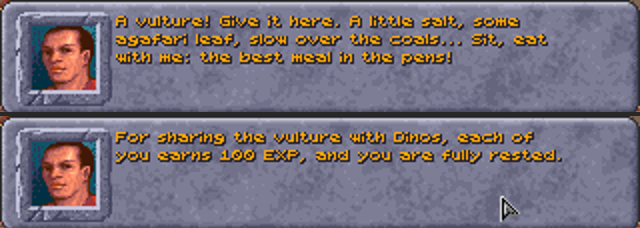
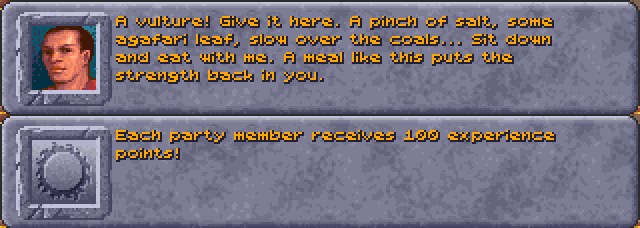
READMEs after pull request #14: changelog, vulture quest and its screenshot, log lines
- Changelog: #14 merged, with its last fixes (the gear writer's memory
  safety, Kalzith's sold out, the vulture at load, the thief's first turn)
  and additions (cloak and boots for stealth, regeneration, the write guard).
- The cooked vulture: the game's own XP window, Dinos's new line, a new
  screenshot.
- Log lines: the meal's, regeneration, the write guard's notice.
- What the party wears: armour on mostly bare figures, and the memory check.

Claude-Session: https://claude.ai/code/session_01BNiWkhyZSJPYsN3zRrweVp

diff --git a/darksun-companion/README.md b/darksun-companion/README.md
@@ -263,6 +263,7 @@ If more than one DOSBox is running, add `--pid <number>` (from `processes`).
 | `    X's Bone Long Sword nearly broke: 0 on 0-7, then 12 on 0-19 (needed 0)` / `... BREAKS` | The weapon check the game makes after an attack sequence whose last attack hit. Only non-magical wood, bone, stone and obsidian weapons can break (and not every kind: clubs and quarterstaffs can't): they break when a 0-7 roll and then a 0-19 roll both come up 0, 1 chance in 160. The line only appears when the first roll comes up 0. |
 | `Message: Long Sword is broken !` | The game's own message boxes: broken or corroded weapons and armour, level-ups, "NO PATH FROM HERE" and so on. |
 | `  Slig now 8/18 HP (-10)` / `  Gerakis now 51/54 HP (+1)` | Any combatant's hit points going down or up, with what's left out of their most. The game never shows a monster's HP; this does. The line comes just after the damage that caused it (sometimes after the next roll, when the game is quick). |
+| `  Gerrard regenerates 1 HP (CON 22), now 16/35 HP` | A hit point back by itself: the game gives one now and then to anyone with CON 20 or more (in the game, CON 20 regenerates and 18 or 19 don't). |
 | `  Skeleton now 10/14 HP (-3: 3 of the 7 rolled, non-magical weapons do half)` / `  Skeleton takes none of the 6 damage: crushing weapons can't hurt it` | A weapon hit that took less than its roll, or none at all (no HP lost three seconds on, or by the next round), with the reason when the monster's own defences give one (what weapons hurt it); otherwise "a protection or resistance took it" (Stoneskin, say). |
 | `    X's special effect on Y: d10 = 1, works on a 1 -> it works` | The 1-in-10 extra effect some creatures' hits have (the thri-kreen bite, for one). |
 | `Slig is killed (270 XP)` | A creature dying, with the XP it's worth (from its character sheet). |
@@ -272,11 +273,12 @@ If more than one DOSBox is running, add `--pid <number>` (from `processes`).
 | `Cilla's 3rd Ranger level: hit points d10 = 2, raised to 3 for CON 21` | The hit point roll for a new level: the class's die (d8 clerics and druids, d10 fighters, gladiators and rangers, d4 preservers, d6 psionicists and thieves), never less than 2, 3 or 4 with CON 20, 21-22 or 23+, and doubled for half-giants. After level 9 or 10 there's no roll, just a fixed gain (thieves roll at 10th too with [levels up to 10](#rule-changes)). |
 | `Cilla hides in shadows: d100 = 21, needs 27 or less (54, halved in daylight) -> hidden` / `  Cilla moves silently: ...` | A thief's or ranger's hiding and moving silently at the start of their turn (the [stealth rule](#rule-changes)). |
 | `Chosen with Tab: Guard (50 HP) - Enter attacks it` | An enemy chosen with Tab in a fight (see [Choosing an enemy](#choosing-an-enemy-tab-enter-and-the-rings)). |
-| `Dinos cooks the vulture and the party eats with him: ... +100 XP each, and restored as after a full rest` | Dinos asked about the cooked vulture (see [The cooked vulture](#the-cooked-vulture)). |
+| `Dinos cooks the vulture and the party eats with him: ... restored as after a full rest (HP, PSP and spell slots); the game gives each 100 XP` | Dinos asked about the cooked vulture (see [The cooked vulture](#the-cooked-vulture)); the XP itself is on the `XP:` line after it. |
 | `Character creation, STR 17: best of four 4d4 (7, 11, 9, 10) = 11, +4, +1 dwarf = 16, raised to 17 (the Fighter's prime requisite)` | An ability score rolled on the character creation screen (see below). |
 | `Character creation, hit points 15: Fighter d10 per level: 7 + 9; Thief d6 per level: 5 + 1 = 22, / 2 classes = 11, +4 CON 16 = 15` | The new character's hit points: a die for every level of every class, divided by the number of classes, plus CON's bonus (see below). |
 | `Character creation: a name picked at random, 1d33 = 6` | The game picks a new name from its lists when the sex or race changes. |
 | `Dice: 1d8 = [3] = 3` | Dice the log couldn't tie to anything (for example a spell with no saving throw). |
+| `(The Ledger stopped one of its own writes over the game's memory: ...)` | A safety net: the Ledger never writes over the start of memory (the interrupt vectors, the BIOS's and DOS's data) or the first bytes of the game's data, which its C runtime checks ("Null pointer assignment"). Such a write could only come from a pointer the game has left empty for a moment; the line says where in the Ledger it came from. Please report it. |
 
 **Reading it at a glance.** Lines at the left edge are the events: a round
 starting, whose turn it is, attack rolls, saves, spells, kills. Lines indented
@@ -812,17 +814,19 @@ slave pens' campfire cooks it. In the game itself the cooked vulture is then no
 use to anyone: no script asks for it. With the Ledger running, **Dinos**, the
 pens' fine cook, can be asked about it: talk to him while someone in the party
 carries it, and among the first things the party can say to him, just before
-"Goodbye.", is **"We cooked the vulture from the arena."** He takes it ("A vulture! Give it here. A little salt,
-some agafari leaf, slow over the coals... Sit, eat with me: the best meal in the
-pens!"), to the sound the game plays when a quest is done (as for the Trustee's
-key or the filled water jug), and, as the game's quests tell theirs: "For
-sharing the vulture with Dinos, each of you earns 100 EXP, and you are fully
-rested." Each party member gets **100 XP** and is **restored as after a full
-rest**: HP, PSP and spell slots full, and anyone knocked out back on their feet.
+"Goodbye.", is **"We cooked the vulture from the arena."** He takes it ("A vulture! Give it here. A pinch of salt,
+some agafari leaf, slow over the coals... Sit down and eat with me. A meal like
+this puts the strength back in you."), and the game's own window for a quest's
+reward follows, as for any of its quests: "Each party member receives 100
+experience points!", with the sound the game plays when a quest is done (as for
+the Trustee's key or the filled water jug). Each party member gets **100 XP**
+(split between a multi-class character's classes, as the game splits all its
+XP) and is **restored as after a full rest**: HP, PSP and spell slots full, and
+anyone knocked out back on their feet. No time passes.
 The question is gone once the vulture is. (Eaten by the party on their own,
 used on one of them from the inventory, it's too tough to be worth the chewing.)
 
-![Dinos's answer, and the reward, in his own dialogue window with his portrait](docs/vulture-meal.png)
+![Dinos's answer in his dialogue window with his portrait, then the game's own window for the reward: "Each party member receives 100 experience points!"](docs/vulture-meal.png)
 
 How: in the Ledger's copy of `GPLDATA.GFF`, Dinos's talk (script 139) has the
 question in its first menu (a copy of the game's with the question added, as for
@@ -830,9 +834,12 @@ the questions about Kalzith and Semyon, see
 [Dinos and the Trustee](#dinos-and-the-trustee-on-kalzith-and-semyon)), shown
 while the game's own test says someone in the party carries the cooked vulture
 (33h, as the campfire's script asks about the plucked one; the game's object
-A4Ch), the test being the question's own condition in the menu. Chosen, the script takes it (5Ch, as the campfire takes the plucked one),
-plays the game's quest sound (5Dh 53, as its quests do) and sets the Ledger's
-flag 780; the Ledger then adds the XP and refills the party, once (flag 781).
+A4Ch), the test being the question's own condition in the menu. Chosen, the script takes it (5Ch, as the campfire takes the plucked one)
+and sets the Ledger's flag 780, then gives the XP through the game's own routine
+for quests (the amount in its variable, then script 74 at 135: the window, the
+words and the quest's sound), as Dinos's own script does when he heals Gilal
+(350). The Ledger then refills the party, once (flag 781), only while the party
+is talking with him (never from a game being loaded).
 
 ### The slave pens' gear
 
@@ -1079,7 +1086,7 @@ walking and fighting:
 |---|---|
 | **Weapons and shields** | each kind its shape (dagger, sword, club, mace, axe, polearm, gythka, staff, a round shield), in its material's colours (wood, bone, stone, obsidian, metal); walking, a one-handed weapon is worn at the belt, hanging down and back like a scabbard, and two-handed ones are carried upright; in a fight they are in the hands and swung, and the shield is on the other forearm in every pose (placed by hand for each model where the arm is hidden or flung) |
 | **Bows and slings** | the bow and quiver on the back (the game draws the bow when shooting), a sling or chatkcha at the hip |
-| **Armour** | the character's own clothing recoloured toward its material, shade for shade (leather, bone, chain, plate, scale...): the chest piece above the waist, arm pieces at the wrists, leg pieces below the waist |
+| **Armour** | the character's own clothing recoloured toward its material, shade for shade (leather, bone, chain, plate, scale...): the chest piece above the waist, arm pieces at the wrists, leg pieces below the waist; on figures the artist drew mostly bare (the mul, the dwarf man) only their straps and loincloth change, so it shows little |
 | **Helms** | a circlet at the brow blended into the hair: a feather on leather, a dark stone on iron, low spikes on bone |
 | **Cloaks** | the human and half-elf woman's own cloak (its folds and swing as she walks and fights) fitted to the wearer, under the hair, in the cloak's colours; hers takes them too |
 | **Boots and belts** | the feet and the waist recoloured |
@@ -1101,7 +1108,9 @@ spare and a marker at the end. While the game runs, when someone's worn items
 change, the Ledger draws their pictures anew (`dscompanion/spritegear.py`,
 from where `dscompanion/spriteparts.py` finds the head, hair, hands and the
 rest in each frame) and writes them over the copies the game has loaded,
-which it draws from at once, and into the copy of the file, so a picture the
+which it draws from at once (only over memory that still holds one of its own
+versions of that picture: what the game has freed and given to something else,
+a monster's figure or a portrait, is left alone), and into the copy of the file, so a picture the
 game loads again (in a fight, in another area) comes dressed
 (`dscompanion/sprites.py`); it has the helper draw the view again (see
 [Shadows](#shadows)), so the figures show it at once, standing still or not.

diff --git a/README.md b/README.md
@@ -16,7 +16,8 @@ game itself, in the game's own lettering and windows:
   - spell slots on the USE screen;
   - each turn's rolls in a pop-up during fights, if you tick it (three levels
     of detail);
-  - what hurts a monster in the Look box.
+  - what hurts a monster in the Look box;
+  - a party member's spell no longer ended by a click on the Effects screen.
 - **Dialogue and spells tabs:** a scrollable record of every conversation, and
   what each spell and psionic power really does, from the game's own records.
 - **Optional AD&D rule changes**, all on by default and each one switchable:
@@ -27,7 +28,7 @@ game itself, in the game's own lettering and windows:
   - DEX on saves against fire, cold and electricity instead of a doubled d20;
   - a new spell, Cat's Grace;
   - thieves hiding in shadows and moving silently to backstab, and rangers
-    to attack from behind;
+    to attack from behind (a cloak and boots help);
   - thief skills from AD&D's table, with Dark Sun's race and DEX adjustments;
   - half-giants wielding two-handed weapons in one hand;
   - class levels up to 10 (the game stops at 9).
@@ -93,7 +94,7 @@ double-click, with the options as last set.)
 Release **1.0.0** is pull requests #1 to #13. Its notes are in
 [`release-notes/v1.0.0.md`](release-notes/v1.0.0.md).
 
-### Pull request #14 (in review)
+### Pull request #14 ([merged 2026-10-04](https://github.com/daaki85/darksun-companion-mod/pull/14))
 
 **Added**
 - **What the party wears, on the map:** each character's figure shows their
@@ -152,6 +153,15 @@ Release **1.0.0** is pull requests #1 to #13. Its notes are in
 - **The quest sound for the vulture:** giving Dinos the cooked vulture plays
   the sound the game plays when a quest is done (the Trustee's key, the
   filled water jug).
+- **Cloaks and boots help thieves and rangers hide:** with the stealth rule, a
+  worn cloak adds 10 to hiding in shadows (before daylight halves it) and worn
+  boots 10 to moving silently, up to 95.
+- **Regeneration in the dice log:** a hit point back by itself, which the game
+  gives anyone with CON 20 or more, is logged as such (`Gerrard regenerates 1
+  HP (CON 22)`).
+- **A safety net against stray writes:** the Ledger never writes over the start
+  of memory or the first bytes of the game's data (what "Null pointer
+  assignment" checks); a write stopped there is named in the dice log.
 
 **Changed**
 - **The Effects screen no longer ends a spell's effect when its icon is clicked**
@@ -162,14 +172,30 @@ Release **1.0.0** is pull requests #1 to #13. Its notes are in
   mark off the files in its own folder, so the others start without asking.
 - **The vulture quest is part of Dinos's talk:** while the party carries the
   cooked vulture, his first menu has "We cooked the vulture from the arena."
-  just before "Goodbye." His answer and the reward are in his own dialogue
-  window, with his portrait, instead of the game's message box; the vulture
+  just before "Goodbye." His answer is in his own dialogue window, with his
+  portrait, and the XP comes as the game's quests give it, in the game's own
+  window ("Each party member receives 100 experience points!"); the vulture
   is no longer used on him from the inventory.
 - **Cat's Grace's icon** is a cat's paw print instead of a cat's face.
 - **Dinos's vulture lines** are his own words, without narration (the game's
   conversations are people speaking).
 
 **Fixed**
+- **DOSBox crashes, garbled figures, freezes and "Null pointer assignment"**
+  (in this pull request's earlier builds): the gear writer kept writing a party
+  picture over memory the game had freed and given to something else (a
+  monster's figure after a fight, a portrait). It now writes only over its own
+  pictures. Gear then failed to show after an area change in one build (an
+  older copy of a picture not recognised as the Ledger's); fixed too.
+- **Kalzith said he had nothing left to sell** after one purchase: while a save
+  loaded, the Ledger could read the new game's flags with the last game's
+  Kalzith (emptied by pickpocketing) and mark it sold out. A game marked so by
+  mistake gets his shop back.
+- **The vulture's reward in the dice log when a game was loaded,** and its XP
+  and rest given then: the flag was read from memory still being loaded.
+- **A thief first in a round didn't hide:** someone who had the last turn of one
+  round and the first of the next got no new turn in the log, so no hide in
+  shadows or move silently roll.
 - **Tab + Enter froze the game:** after Enter, the walk to the chosen enemy
   stalled, sometimes until a mouse click. The helper answered the game's "what is
   under the pointer" with the enemy and returned without giving back the game's
